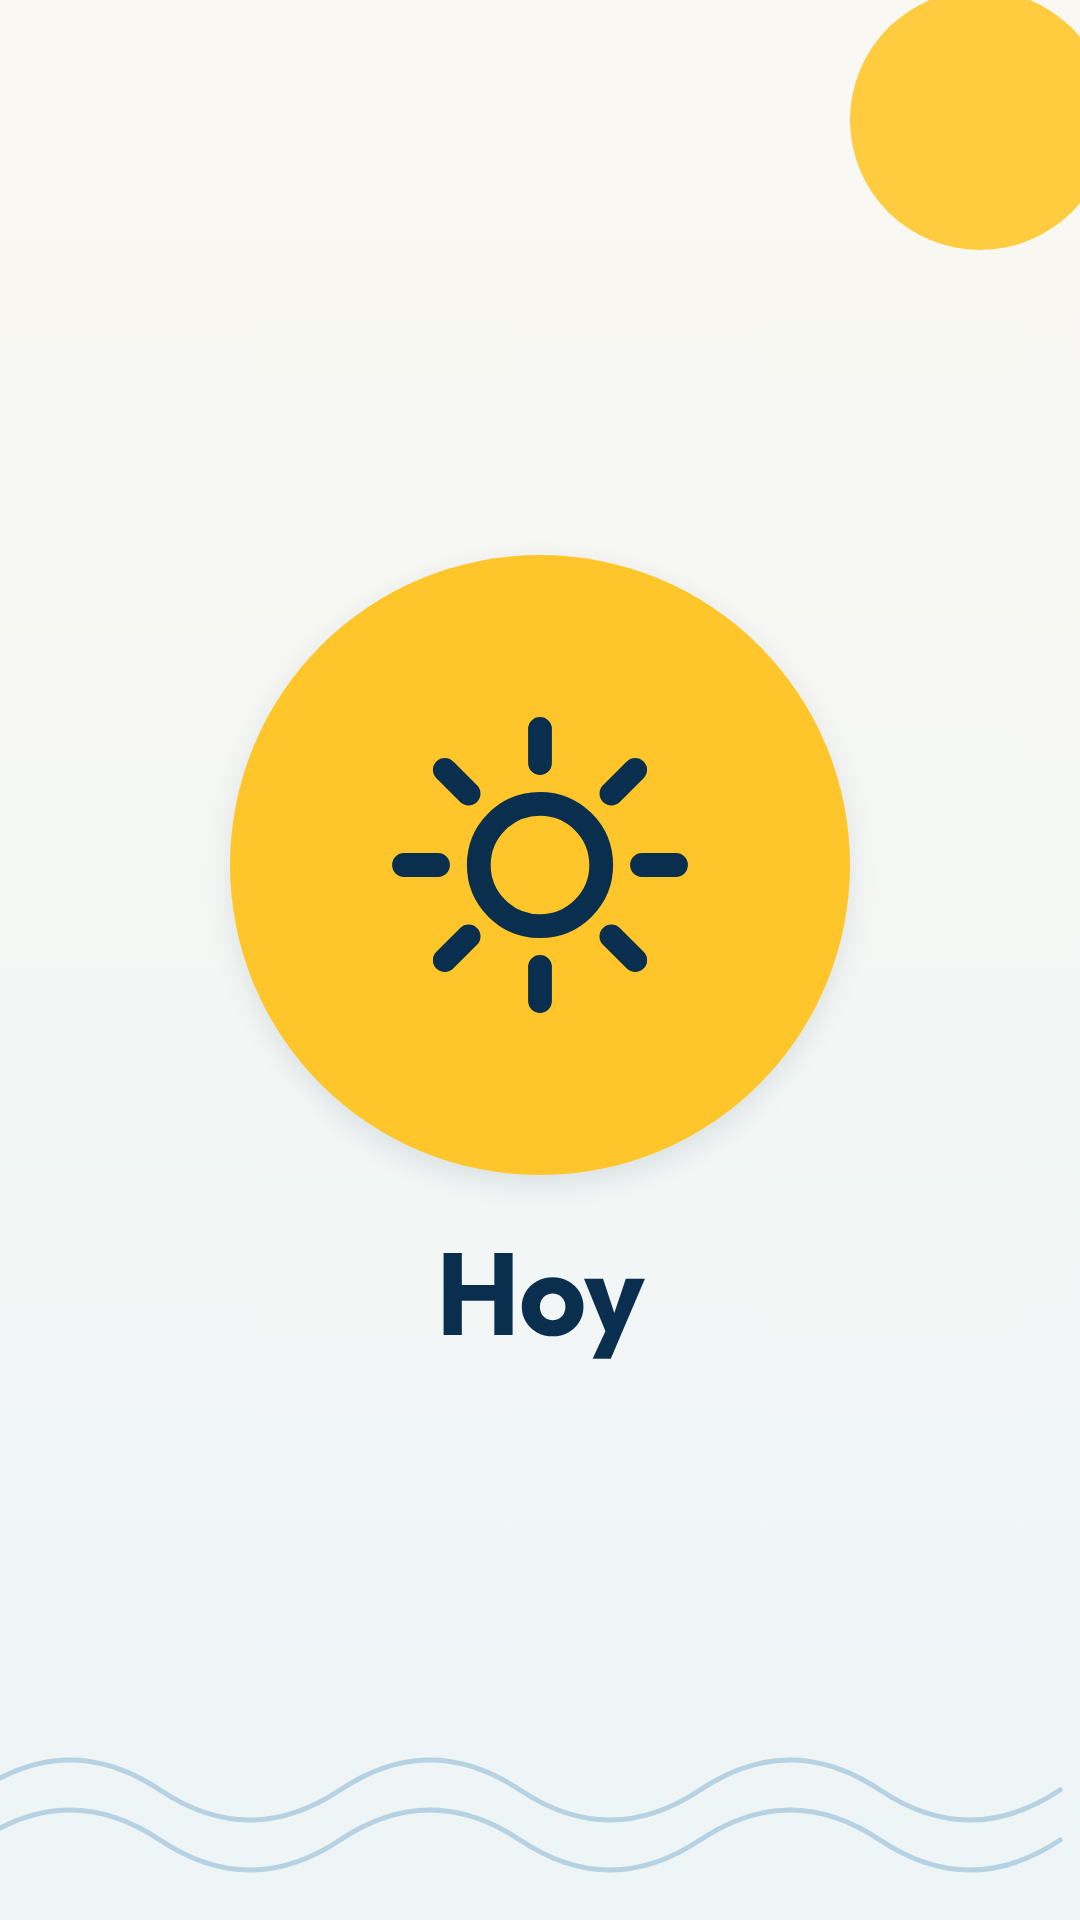
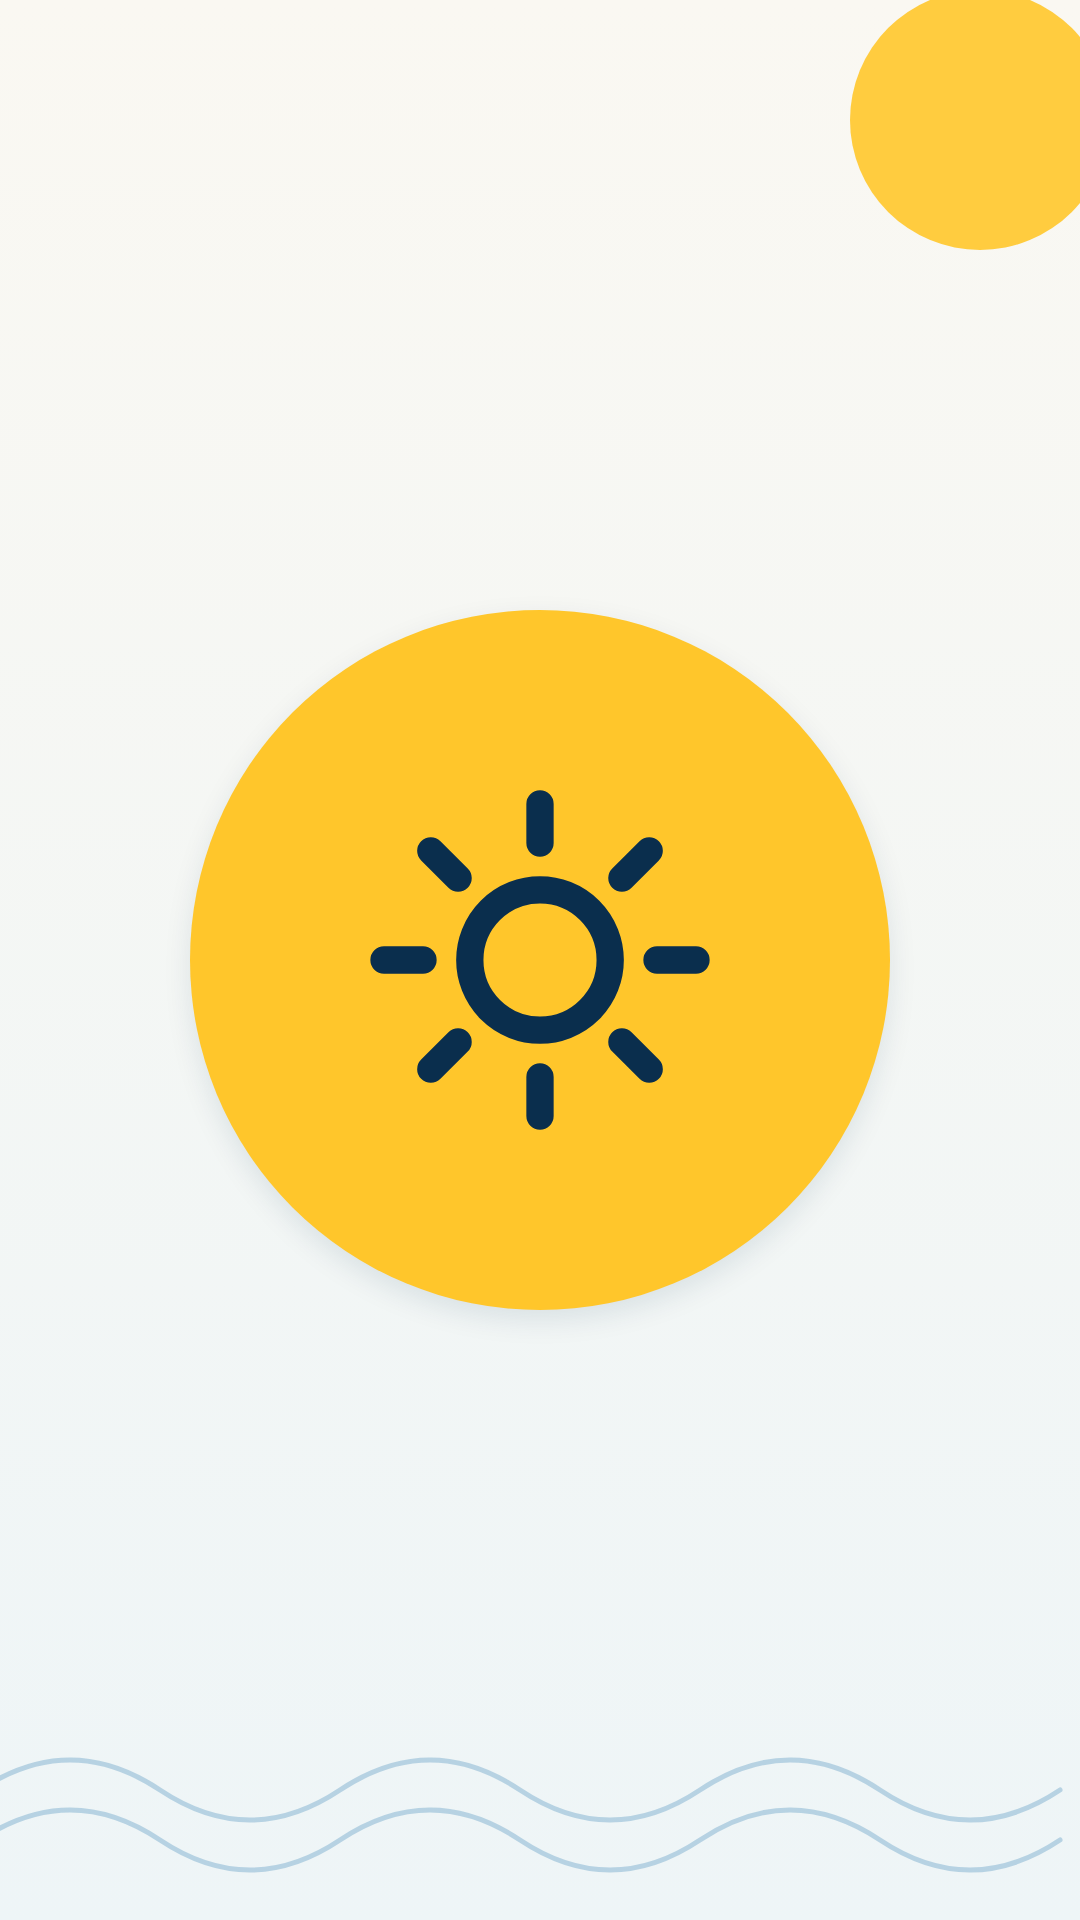
Simulación del feed de Instagram; destacadas sin etiqueta; orden de paletas optimizado para la cuadrícula de 3 columnas
Claude-Session: https://claude.ai/code/session_015K7xjVeU4nwxNYicvNL5Uy

Changed region(s): [[0.1528, 0.2812, 0.825, 0.7188], [0.5806, 0.375, 0.6111, 0.4062]]

diff --git a/plantilla/feed.html b/plantilla/feed.html
@@ -1,0 +1,36 @@
+<!doctype html><html lang="es"><head><meta charset="utf-8"><link rel="stylesheet" href="estilos.css">
+<style>
+html,body{background:#fff!important;color:#111!important;font-family:var(--f-texto)}
+.num b,.bio,.btns div,.top{color:#111!important}.num span{color:#555!important}
+.m{width:1080px;background:#fff}
+.top{display:flex;justify-content:space-between;align-items:center;padding:34px 44px 8px;font:800 40px var(--f-texto)}
+.cab{display:flex;align-items:center;gap:44px;padding:20px 44px 18px}
+.cab img.av{width:230px;height:230px;border-radius:50%;border:2px solid #ddd;flex:none}
+.num{display:flex;gap:54px;text-align:center}.num b{display:block;font-size:46px}.num span{font-size:27px;color:#444}
+.bio{padding:0 44px 24px;font-size:31px;line-height:1.38}.bio b{font-size:33px}
+.btns{display:flex;gap:14px;padding:0 44px 26px}.btns div{flex:1;text-align:center;padding:16px 0;border-radius:16px;background:#EFEFEF;font:700 29px var(--f-texto)}
+.dest{display:flex;gap:38px;padding:6px 44px 26px;overflow:hidden}
+.dest div{width:190px;text-align:center;font:600 26px var(--f-texto)}
+.dest .c{width:176px;height:176px;margin:0 auto 10px;border-radius:50%;border:3px solid #ddd;padding:6px}
+.dest .c i{display:block;width:100%;height:100%;border-radius:50%;background-size:cover;background-position:center}
+.tabs{display:flex;border-top:2px solid #dbdbdb;height:78px}.tabs div{flex:1;display:flex;align-items:center;justify-content:center}
+.tabs div.on{border-top:4px solid #111;margin-top:-2px}.tabs svg{width:42px;height:42px;stroke:#111;fill:none;stroke-width:2.2}.tabs div:not(.on) svg{stroke:#8e8e8e}
+.grid{display:grid;grid-template-columns:repeat(3,1fr);gap:3px}
+.cel{position:relative;aspect-ratio:3/4;background-size:cover;background-position:center}
+.cel svg{position:absolute;right:16px;top:16px;width:46px;height:46px;fill:#fff;filter:drop-shadow(0 2px 4px rgba(0,0,0,.6))}
+.nota{padding:22px 44px;font:600 24px var(--f-texto);color:#777;text-align:center}
+</style></head><body><div class="m" id="l"></div>
+<script>
+const SV_CAR='<svg viewBox="0 0 24 24"><path d="M6 3h12a3 3 0 0 1 3 3v12h-2V6a1 1 0 0 0-1-1H6zM3 7h12a2 2 0 0 1 2 2v11a1 1 0 0 1-1 1H4a1 1 0 0 1-1-1z"/></svg>';
+const SV_REEL='<svg viewBox="0 0 24 24"><path d="M5 3h14a3 3 0 0 1 3 3v12a3 3 0 0 1-3 3H5a3 3 0 0 1-3-3V6a3 3 0 0 1 3-3zm3 3L6 9h4l2-3zm5 0l-2 3h4l2-3zM10 12v6l5-3z"/></svg>';
+function render(d){
+  const cel=d.posts.map(p=>`<div class="cel" style="background-image:url('${p.img}')">${p.tipo==="reel"?SV_REEL:SV_CAR}</div>`).join("");
+  document.getElementById("l").innerHTML=`<div class="top"><span>planesencadiz</span><span>☰</span></div>
+  <div class="cab"><img class="av" src="${d.avatar}"><div><div class="num"><div><b>${d.posts.length}</b><span>publicaciones</span></div><div><b>—</b><span>seguidores</span></div><div><b>—</b><span>seguidos</span></div></div></div></div>
+  <div class="bio"><b>${d.nombre}</b><br>${d.bio.replace(/\n/g,"<br>")}</div>
+  <div class="btns"><div>Siguiendo</div><div>Mensaje</div><div>Contacto</div></div>
+  <div class="dest">${d.destacadas.map(x=>`<div><div class="c"><i style="background-image:url('${x.img}')"></i></div>${x.t}</div>`).join("")}</div>
+  <div class="tabs"><div class="on"><svg viewBox="0 0 24 24"><rect x="3" y="3" width="7" height="7"/><rect x="14" y="3" width="7" height="7"/><rect x="3" y="14" width="7" height="7"/><rect x="14" y="14" width="7" height="7"/></svg></div><div><svg viewBox="0 0 24 24"><rect x="3" y="3" width="18" height="18" rx="4"/><path d="M10 9v6l5-3z"/></svg></div><div><svg viewBox="0 0 24 24"><circle cx="12" cy="9" r="4"/><path d="M4 21c1-5 15-5 16 0"/></svg></div></div>
+  <div class="grid">${cel}</div><div class="nota">Simulación del perfil con el contenido de ejemplo · el nº de seguidores se omite</div>`;
+}
+</script></body></html>

diff --git a/plantilla/destacada.html b/plantilla/destacada.html
@@ -1,8 +1,8 @@
 <!doctype html><html lang="es"><head><meta charset="utf-8"><link rel="stylesheet" href="estilos.css"><script src="comun.js"></script>
 <style>
 .lienzo{display:flex;align-items:center;justify-content:center;flex-direction:column;gap:44px}
-.disco{width:620px;height:620px;border-radius:50%;background:var(--c-acento);display:flex;align-items:center;justify-content:center;box-shadow:var(--sombra)}
-.disco svg{width:340px;height:340px;fill:none;stroke:var(--c-sobre-acento);stroke-width:7;stroke-linecap:round;stroke-linejoin:round}
+.disco{width:700px;height:700px;border-radius:50%;background:var(--c-acento);display:flex;align-items:center;justify-content:center;box-shadow:var(--sombra)}
+.disco svg{width:390px;height:390px;fill:none;stroke:var(--c-sobre-acento);stroke-width:7;stroke-linecap:round;stroke-linejoin:round}
 .et{font-family:var(--f-titulo);font-weight:var(--peso-t);font-size:116px;text-transform:var(--mayus);color:var(--c-texto);letter-spacing:-.01em}
 </style></head><body>
 <div class="lienzo story" id="l"></div>
@@ -15,7 +15,7 @@ const ICONOS={
 };
 async function render(d){
   aplicarTema(d);
-  document.getElementById("l").innerHTML=`<div class="deco"></div><div class="disco"><svg viewBox="0 0 100 100">${ICONOS[d.icono]}</svg></div><div class="et">${esc(d.etiqueta)}</div>`;
+  document.getElementById("l").innerHTML=`<div class="deco"></div><div class="disco"><svg viewBox="0 0 100 100">${ICONOS[d.icono]}</svg></div>${d.con_etiqueta?`<div class="et">${esc(d.etiqueta)}</div>`:""}`;
   await listo();
 }
 </script></body></html>

diff --git a/simular_feed.py b/simular_feed.py
@@ -1,0 +1,79 @@
+#!/usr/bin/env python3
+"""Simula la cuadrícula del perfil de Instagram con portadas diarias (7 paletas rotatorias), carruseles de finde/mensual y portadas de reel.
+   python simular_feed.py [AAAA-MM-DD hasta]   (por defecto: 29 días hasta el 2026-10-29)
+Salida: ejemplos/feed-simulado/{perfil.png, cuadricula-completa.png, portadas/*.png}"""
+import random
+import sys
+from datetime import date, timedelta
+from pathlib import Path
+
+from PIL import Image
+
+import agenda as ag
+import reel
+import render as rd
+
+SALIDA = ag.RAIZ / "ejemplos" / "feed-simulado"
+PORT = SALIDA / "portadas"
+
+
+def crop_feed(src, dst, alto):
+    """Recorte de la cuadrícula de Instagram (3:4, escalado para cubrir la celda y centrado)."""
+    im = Image.open(src).convert("RGB")
+    w, h = im.size
+    if w / h > 3 / 4:   # más ancho que 3:4 (p. ej. 4:5): se recortan los lados
+        nw = round(h * 3 / 4); x = (w - nw) // 2; im = im.crop((x, 0, x + nw, h))
+    else:               # más alto (reel 9:16): se recorta arriba y abajo
+        nh = round(w * 4 / 3); y = (h - nh) // 2; im = im.crop((0, y, w, y + nh))
+    im.resize((540, 720)).save(dst, quality=90)
+
+
+def main(hasta, dias=29):
+    PORT.mkdir(parents=True, exist_ok=True)
+    fin = ag.a_fecha(hasta)
+    rng = random.Random(7)
+    # fotos de ejemplo para las portadas de reel: las del finde de test
+    c = ag.dir_dia("2026-10-29", "finde")
+    evs = ag.eventos_validos(ag.cargar_eventos(c)["eventos"]); rd.resolver_imagenes(evs, c)
+    posts = []  # (fecha, orden, tipo, imagen)
+    reels = []
+    with rd.Renderer() as r:
+        for i in range(dias):
+            f = fin - timedelta(days=i)
+            pal = rd.paleta(f)
+            if f.day == 1:  # agenda mensual
+                datos = dict(titulo=f"Lo más destacado de {ag.MESES[f.month - 1]}", subtitulo=f"{ag.MESES[f.month - 1]} {f.year}", total=rng.randint(8, 10), etiqueta="Agenda mensual", sufijo="imprescindibles", paleta=rd.paleta(f + timedelta(days=2)))
+                p = PORT / f"{f}-mensual.png"; r.png("portada.html", datos, p, rd.VIEW_FEED); posts.append((f, 2, "carrusel", p))
+            if f.weekday() == 3:  # jueves: reel + carrusel del finde
+                datos = dict(titulo="Planes del finde", subtitulo=rd.titulos("finde", f, [])[1], total=rng.randint(12, 26), etiqueta="Viernes a domingo", sufijo="para el finde", paleta=rd.paleta(f + timedelta(days=3)))
+                p = PORT / f"{f}-finde.png"; r.png("portada.html", datos, p, rd.VIEW_FEED); posts.append((f, 1, "carrusel", p))
+                d, n, tot = reel.datos_reel(evs, "Planes del finde", datos["subtitulo"], f)
+                q = PORT / f"{f}-reel.png"; reels.append((d, q)); posts.append((f, 0, "reel", q))
+            datos = dict(titulo="Qué hacer hoy", subtitulo=ag.fecha_larga(f), total=rng.randint(4, 15), etiqueta="Agenda diaria", sufijo="en la ciudad", paleta=pal)
+            p = PORT / f"{f}-diario.png"; r.png("portada.html", datos, p, rd.VIEW_FEED); posts.append((f, 3, "carrusel", p))
+    for d, q in reels:  # fuera del Renderer anterior (Playwright no admite anidar)
+        reel.capturar_portada(d, q)
+    posts.sort(key=lambda x: (-x[0].toordinal(), x[1]))  # más reciente primero; el mismo día: reel, finde, mensual/diario
+    miniaturas = []
+    for f, _, tipo, src in posts:
+        dst = PORT / (src.stem + "-grid.jpg"); crop_feed(src, dst, 0); miniaturas.append({"tipo": tipo, "img": dst.as_uri()})
+    marca = ag.RAIZ / "marca"
+    datos = {"avatar": (marca / "foto-perfil-320.png").as_uri(), "nombre": "Planes en Cádiz · Agenda diaria",
+             "bio": "☀ Qué hacer hoy en Cádiz, cada día a las 9:00\n🌊 Gratis · Finde · Lo mejor del mes\n👇 Comenta PLANES y te la mandamos",
+             "destacadas": [{"t": t, "img": (marca / f"destacada-{k}.png").as_uri()} for t, k in (("Hoy", "hoy"), ("Finde", "finde"), ("Este mes", "mes"), ("Gratis", "gratis"))],
+             "posts": miniaturas}
+    with rd.Renderer() as r:
+        pg = r.browser.new_page(viewport={"width": 1080, "height": 1200})
+        pg.goto((rd.PLANTILLA / "feed.html").as_uri())
+        pg.add_style_tag(url=(rd.PLANTILLA / "estilos.css").as_uri())
+        pg.evaluate("d => render(d)", datos)
+        pg.wait_for_timeout(1200)
+        pg.screenshot(path=str(SALIDA / "cuadricula-completa.png"), full_page=True)
+        pg.set_viewport_size({"width": 1080, "height": 2300})
+        pg.screenshot(path=str(SALIDA / "perfil.png"), clip={"x": 0, "y": 0, "width": 1080, "height": 2300})
+        pg.close()
+    print(len(posts), "publicaciones simuladas")
+
+
+if __name__ == "__main__":
+    main(sys.argv[1] if len(sys.argv) > 1 else "2026-10-29")

diff --git a/render.py b/render.py
@@ -92,7 +92,7 @@ def variante(fecha):
     return fijada if fijada in ("A", "B") else ("A" if ag.a_fecha(fecha).toordinal() % 2 == 0 else "B")
 
 
-ORDEN_PALETAS = [0, 3, 2, 5, 4, 6, 1]  # mar, sol, cal, mar+sol cal, bruma, sol+sol azul, noche: días consecutivos nunca se parecen
+ORDEN_PALETAS = [0, 2, 1, 4, 3, 5, 6]  # elegido por búsqueda: ni el día siguiente ni el de la fila de arriba/abajo de la cuadrícula (3 columnas) comparten familia de color
 
 
 def paleta(fecha):

diff --git a/marca.md b/marca.md
@@ -44,7 +44,7 @@ Fuente de verdad en código: `marca.json` (tema, prefijo, ciudad, usuario) + `pl
 - **Tamaños de letra mínimos (lienzo 1080 px):** nombre de evento ≥ 31 px (34 px con ≤ 6 eventos por diapositiva), hora/lugar/precio ≥ 28 px (30 px con ≤ 6), etiqueta de marca ≥ 26 px, chips de categoría 24 px (mayúsculas en negrita). Nunca por debajo.
 - **Densidad de eventos.** 1: imagen grande + todos los datos; 2: imagen + datos completos; 3–4: imagen cuadrada + categoría, hora, lugar y precio; 5–6: imagen + nombre y una línea (hora · lugar · precio); 7+: imagen pequeña + nombre y hora · lugar.
 - **Decorado:** sol amarillo (esquina superior derecha) + líneas de ola (inferior). Fotografía de evento con esquinas redondeadas (30 px). Nada de símbolos oficiales (escudo de Cádiz, Ayuntamiento, Cádiz CF…) ni material de terceros.
-- **Portada con color rotatorio** (para que el feed no se repita): 7 variantes que cambian **cada día** y usan **solo la paleta D1** (mar, noche, cal, bruma y sol). Misma estructura en todas (logo, sol arriba a la derecha, olas abajo). Orden fijo en `render.py` (`ORDEN_PALETAS`; días consecutivos nunca se parecen): **0 Mar** `#0A5A94→#083F6B` (sol amarillo) · **3 Sol** `#FFC62B→#F5B400` (texto `#0A2E4D`, sol cal) · **2 Cal** `#FAF8F2→#EEF5F7` (texto `#0A2E4D`, sol amarillo) · **5 Mar con sol cal** (olas amarillas) · **4 Bruma** `#BFE6EE→#9FD3E0` (texto `#0A2E4D`, sol amarillo) · **6 Sol con sol azul** `#0E6BA8` · **1 Noche** `#0A2E4D→#071D33` (sol amarillo). Contraste medido ≥ 4,6:1 en las 7 (`propuestas-marca/auditar_portadas.py`, hoja en `propuestas-marca/paletas-portada/`). No se añaden colores fuera de la paleta. Las diapositivas de eventos y stories mantienen siempre el fondo cal.
+- **Portada con color rotatorio** (para que el feed no se repita): 7 variantes que cambian **cada día** y usan **solo la paleta D1** (mar, noche, cal, bruma y sol). Misma estructura en todas (logo, sol arriba a la derecha, olas abajo). Orden fijo en `render.py` (`ORDEN_PALETAS`), elegido por búsqueda para que ni el día siguiente ni la fila de arriba/abajo de la cuadrícula (3 columnas) compartan familia de color: **0 Mar** `#0A5A94→#083F6B` (sol amarillo) · **2 Cal** `#FAF8F2→#EEF5F7` (texto `#0A2E4D`, sol amarillo) · **1 Noche** `#0A2E4D→#071D33` (sol amarillo) · **4 Bruma** `#BFE6EE→#9FD3E0` (texto `#0A2E4D`, sol amarillo) · **3 Sol** `#FFC62B→#F5B400` (texto `#0A2E4D`, sol cal) · **5 Mar con sol cal** (olas amarillas) · **6 Sol con sol azul** `#0E6BA8`. Contraste medido ≥ 4,6:1 en las 7 (`propuestas-marca/auditar_portadas.py`, hoja en `propuestas-marca/paletas-portada/`). No se añaden colores fuera de la paleta. Las diapositivas de eventos y stories mantienen siempre el fondo cal.
 - **Portada:** logo grande arriba, etiqueta («Agenda diaria», «Viernes a domingo», «Agenda mensual»), título, fecha, nº de planes. Títulos: «Qué hacer hoy», «Planes del finde», «Lo más destacado de [mes]» (la ciudad la pone el logo; el alt_text dice «Planes en Cádiz»).
 - **Story patrocinada:** misma línea gráfica y etiqueta «Publicidad» visible arriba (`story-patrocinio.html`).
 
